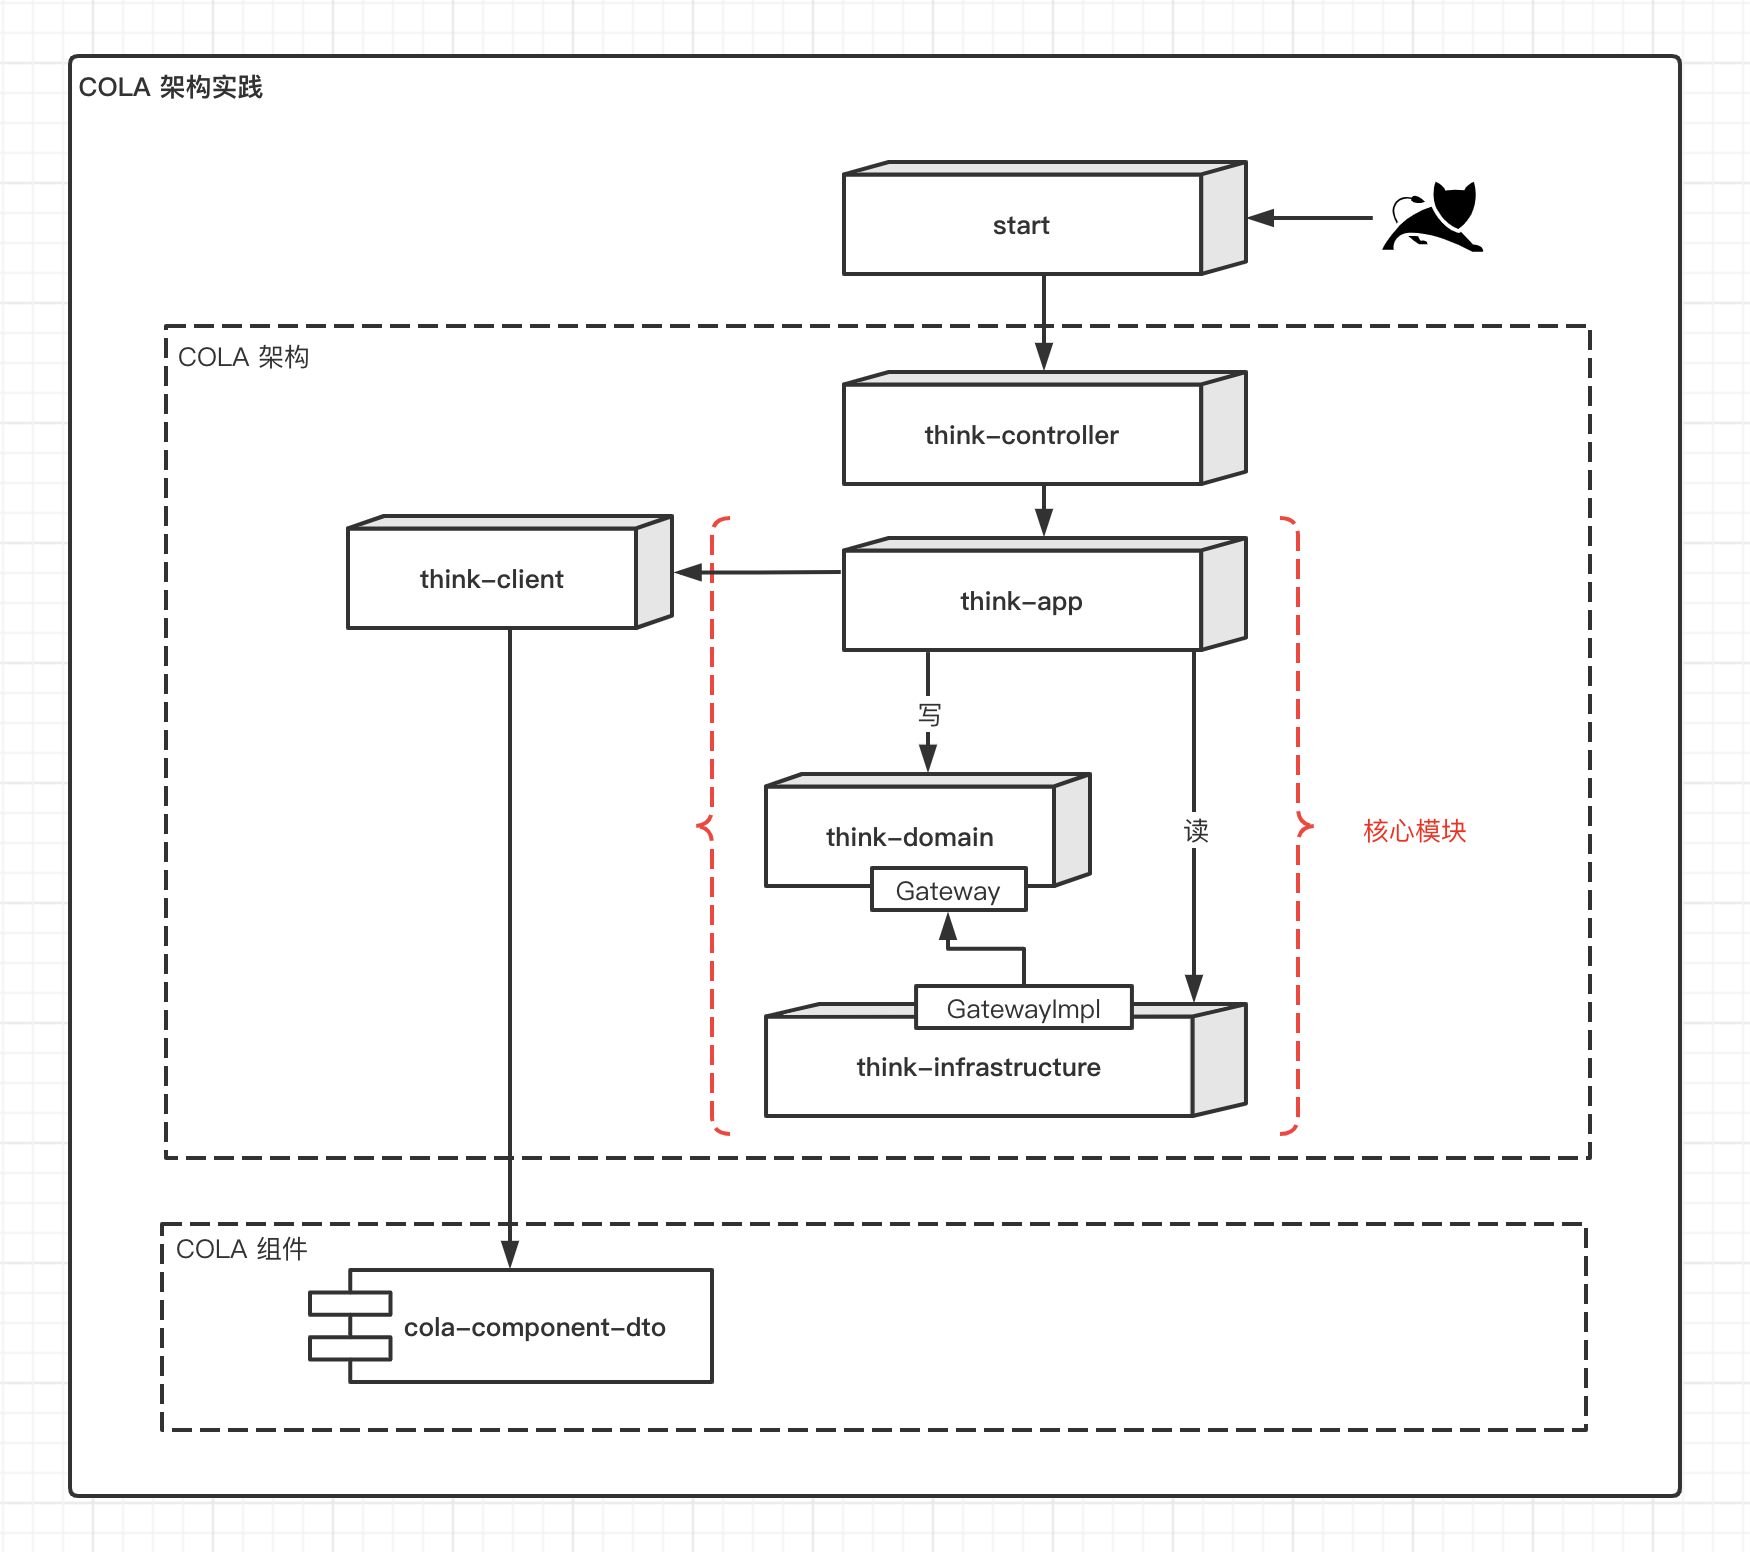
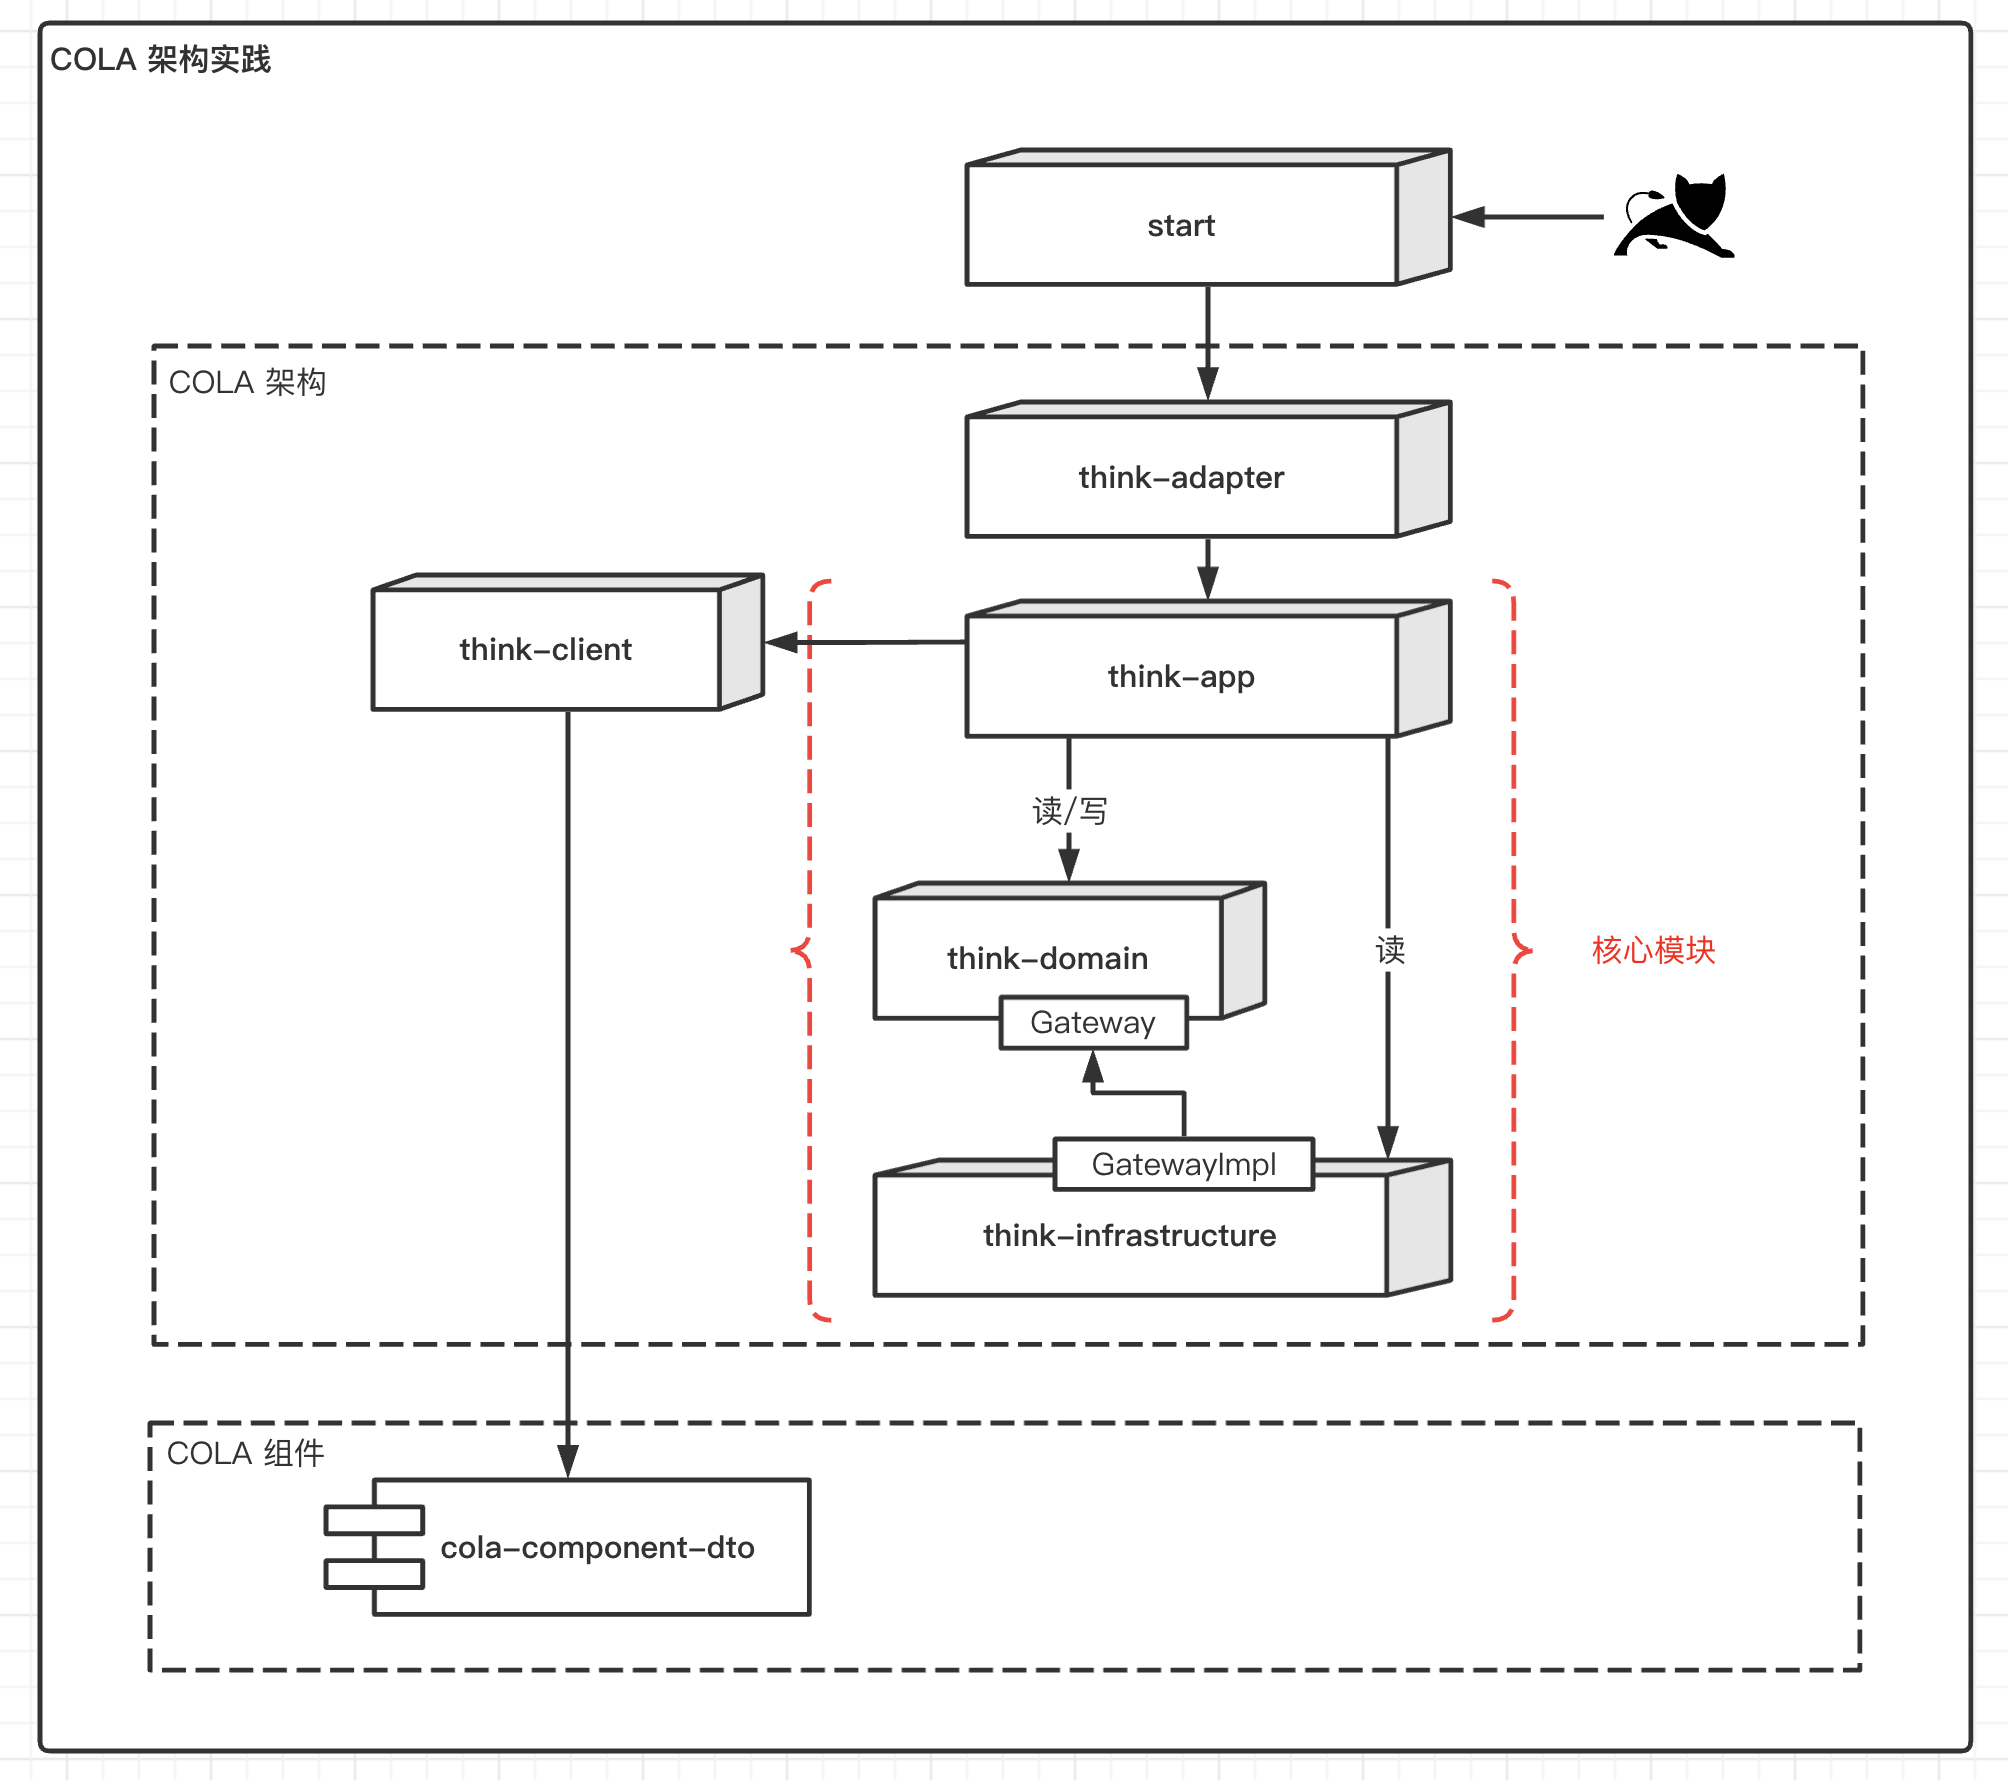
chore: think-controller 改为 think-adapter，adapter承载更多能力

Changed region(s): [[0.0617, 0.0619, 0.9257, 0.9278], [0.0, 0.0, 0.9874, 0.9897]]

diff --git a/think-infrastructure/src/main/java/com/amos/think/gateway/impl/UserGatewayImpl.java b/think-infrastructure/src/main/java/com/amos/think/gateway/impl/UserGatewayImpl.java
@@ -1,6 +1,6 @@
 package com.amos.think.gateway.impl;
 
-import com.amos.think.common.exception.BizException;
+import com.amos.think.common.exception.ThinkBizException;
 import com.amos.think.convertor.UserConvertor;
 import com.amos.think.domain.gateway.UserGateway;
 import com.amos.think.domain.user.UserEntity;
@@ -53,7 +53,7 @@ public class UserGatewayImpl implements UserGateway {
     public UserEntity findById(Long id) {
         Optional<UserDO> findById = userMapper.selectById(id);
         if (!findById.isPresent()) {
-            throw new BizException(ErrorCode.B_USER_UNDEFINED);
+            throw new ThinkBizException(ErrorCode.B_USER_UNDEFINED);
         }
 
         UserDO userDO = findById.get();
@@ -120,7 +120,7 @@ public class UserGatewayImpl implements UserGateway {
     private UserEntity modifyUser(UserEntity userEntity) {
         Optional<UserDO> findById = userMapper.selectById(userEntity.getId());
         if (!findById.isPresent()) {
-            throw new BizException(ErrorCode.B_USER_UNDEFINED);
+            throw new ThinkBizException(ErrorCode.B_USER_UNDEFINED);
         }
 
         UserDO userDO = findById.get();

diff --git a/think-app/src/main/java/com/amos/think/user/command/query/UserLoginQueryExe.java b/think-app/src/main/java/com/amos/think/user/command/query/UserLoginQueryExe.java
@@ -1,6 +1,6 @@
 package com.amos.think.user.command.query;
 
-import com.amos.think.common.exception.BizException;
+import com.amos.think.common.exception.ThinkBizException;
 import com.amos.think.domain.gateway.UserGateway;
 import com.amos.think.domain.user.UserEntity;
 import com.amos.think.dto.data.ErrorCode;
@@ -25,12 +25,12 @@ public class UserLoginQueryExe {
     public void execute(UserLoginQuery query) {
         UserEntity userEntity = userGateway.findPasswordInfo(query.getUsername());
         if (Objects.isNull(userEntity)) {
-            throw new BizException(ErrorCode.B_USER_PASSWORD_ERROR);
+            throw new ThinkBizException(ErrorCode.B_USER_PASSWORD_ERROR);
         }
 
         // 校验密码是否正确
         if (!userEntity.getPassword().isCorrect(query.getPassword())) {
-            throw new BizException(ErrorCode.B_USER_PASSWORD_ERROR);
+            throw new ThinkBizException(ErrorCode.B_USER_PASSWORD_ERROR);
         }
     }
 

diff --git a/think-start/src/test/java/com/amos/think/test/UserServiceTest.java b/think-start/src/test/java/com/amos/think/test/UserServiceTest.java
@@ -3,7 +3,7 @@ package com.amos.think.test;
 import com.alibaba.cola.dto.MultiResponse;
 import com.alibaba.fastjson.JSON;
 import com.amos.think.api.IUserService;
-import com.amos.think.common.exception.BizException;
+import com.amos.think.common.exception.ThinkBizException;
 import com.amos.think.dto.UserModifyCmd;
 import com.amos.think.dto.UserRegisterCmd;
 import com.amos.think.dto.data.ErrorCode;
@@ -76,8 +76,8 @@ public class UserServiceTest {
         //2.execute
         try {
             userService.register(registerCmd);
-        } catch (BizException e) {
-            Assert.assertEquals(ErrorCode.B_USER_USERNAME_REPEAT, e.getErrorCode());
+        } catch (ThinkBizException e) {
+            Assert.assertEquals(ErrorCode.B_USER_USERNAME_REPEAT.getErrCode(), e.getErrCode());
         }
     }
 

diff --git a/think-app/src/main/java/com/amos/think/user/command/query/UserInfoQueryExe.java b/think-app/src/main/java/com/amos/think/user/command/query/UserInfoQueryExe.java
@@ -1,7 +1,7 @@
 package com.amos.think.user.command.query;
 
 import com.alibaba.cola.dto.SingleResponse;
-import com.amos.think.common.exception.BizException;
+import com.amos.think.common.exception.ThinkBizException;
 import com.amos.think.domain.gateway.UserGateway;
 import com.amos.think.domain.user.UserEntity;
 import com.amos.think.dto.data.ErrorCode;
@@ -27,7 +27,7 @@ public class UserInfoQueryExe {
     public SingleResponse<UserVO> execute(Long id) {
         UserEntity userEntity = userGateway.findById(id);
         if (Objects.isNull(userEntity)) {
-            throw new BizException(ErrorCode.B_USER_UNDEFINED);
+            throw new ThinkBizException(ErrorCode.B_USER_UNDEFINED);
         }
 
         return SingleResponse.of(UserAssembler.toValueObject(userEntity));

diff --git a/think-app/src/main/java/com/amos/think/user/command/UserModifyCmdExe.java b/think-app/src/main/java/com/amos/think/user/command/UserModifyCmdExe.java
@@ -1,6 +1,6 @@
 package com.amos.think.user.command;
 
-import com.amos.think.common.exception.BizException;
+import com.amos.think.common.exception.ThinkBizException;
 import com.amos.think.domain.gateway.UserGateway;
 import com.amos.think.domain.user.UserEntity;
 import com.amos.think.dto.UserModifyCmd;
@@ -26,7 +26,7 @@ public class UserModifyCmdExe {
     public UserVO execute(UserModifyCmd cmd) {
         // check 用户名是否重复
         if (userGateway.checkByUsername(cmd.getId(), cmd.getUsername())) {
-            throw new BizException(ErrorCode.B_USER_USERNAME_REPEAT);
+            throw new ThinkBizException(ErrorCode.B_USER_USERNAME_REPEAT);
         }
 
         UserEntity userEntity = userGateway.save(UserAssembler.toEntity(cmd));

diff --git a/think-app/src/main/java/com/amos/think/user/command/UserRegisterCmdExe.java b/think-app/src/main/java/com/amos/think/user/command/UserRegisterCmdExe.java
@@ -1,6 +1,6 @@
 package com.amos.think.user.command;
 
-import com.amos.think.common.exception.BizException;
+import com.amos.think.common.exception.ThinkBizException;
 import com.amos.think.domain.gateway.UserGateway;
 import com.amos.think.domain.user.UserEntity;
 import com.amos.think.dto.UserRegisterCmd;
@@ -26,7 +26,7 @@ public class UserRegisterCmdExe {
     public UserVO execute(UserRegisterCmd cmd) {
         // check 用户名是否重复
         if (userGateway.checkByUsername(null, cmd.getUsername())) {
-            throw new BizException(ErrorCode.B_USER_USERNAME_REPEAT);
+            throw new ThinkBizException(ErrorCode.B_USER_USERNAME_REPEAT);
         }
 
         UserEntity userEntity = userGateway.save(UserAssembler.toEntity(cmd));

diff --git a/think-infrastructure/src/main/java/com/amos/think/common/exception/ThinkBizException.java b/think-infrastructure/src/main/java/com/amos/think/common/exception/ThinkBizException.java
@@ -1,0 +1,19 @@
+package com.amos.think.common.exception;
+
+import com.alibaba.cola.exception.BizException;
+import com.amos.think.dto.data.ErrorCode;
+
+/**
+ * 业务异常
+ *
+ * @author <a href="mailto:daoyuan0626@gmail.com">amos.wang</a>
+ * @date 2021/11/27
+ */
+public class ThinkBizException extends BizException {
+
+    private static final long serialVersionUID = -2776433598172531409L;
+
+    public ThinkBizException(ErrorCode errorCode) {
+        super(errorCode.getErrCode(), errorCode.getErrDesc());
+    }
+}

diff --git a/think-adapter/src/main/java/com/amos/think/adapter/mtop/UserMtopApi.java b/think-adapter/src/main/java/com/amos/think/adapter/mtop/UserMtopApi.java
@@ -1,0 +1,11 @@
+package com.amos.think.adapter.mtop;
+
+/**
+ * 用户对外MTOP接口，mtop api 用于内部应用访问
+ *
+ * @author <a href="mailto:daoyuan0626@gmail.com">amos.wang</a>
+ * @date 2022/10/28
+ */
+//@MtopApi
+public class UserMtopApi {
+}

diff --git a/think-adapter/src/main/java/com/amos/think/adapter/top/UserTopApi.java b/think-adapter/src/main/java/com/amos/think/adapter/top/UserTopApi.java
@@ -1,0 +1,11 @@
+package com.amos.think.adapter.top;
+
+/**
+ * 用户对外MTOP接口，top api 用于外渠应用访问
+ *
+ * @author <a href="mailto:daoyuan0626@gmail.com">amos.wang</a>
+ * @date 2022/10/28
+ */
+//@TopApi
+public class UserTopApi {
+}

diff --git a/think-adapter/src/main/java/com/amos/think/adapter/web/UserController.java b/think-adapter/src/main/java/com/amos/think/adapter/web/UserController.java
@@ -1,4 +1,4 @@
-package com.amos.think.web;
+package com.amos.think.adapter.web;
 
 import com.alibaba.cola.dto.MultiResponse;
 import com.alibaba.cola.dto.Response;

diff --git a/README.md b/README.md
@@ -10,8 +10,6 @@ mvn archetype:generate  -DgroupId=com.amos -DartifactId=think -Dversion=1.0.0-SN
 
 ## 项目架构图
 
-> adapter 暂时用不到，就用 controller 代替了。
-
 ![项目架构图](doc/image/framework.png)
 
 ## 项目案例
